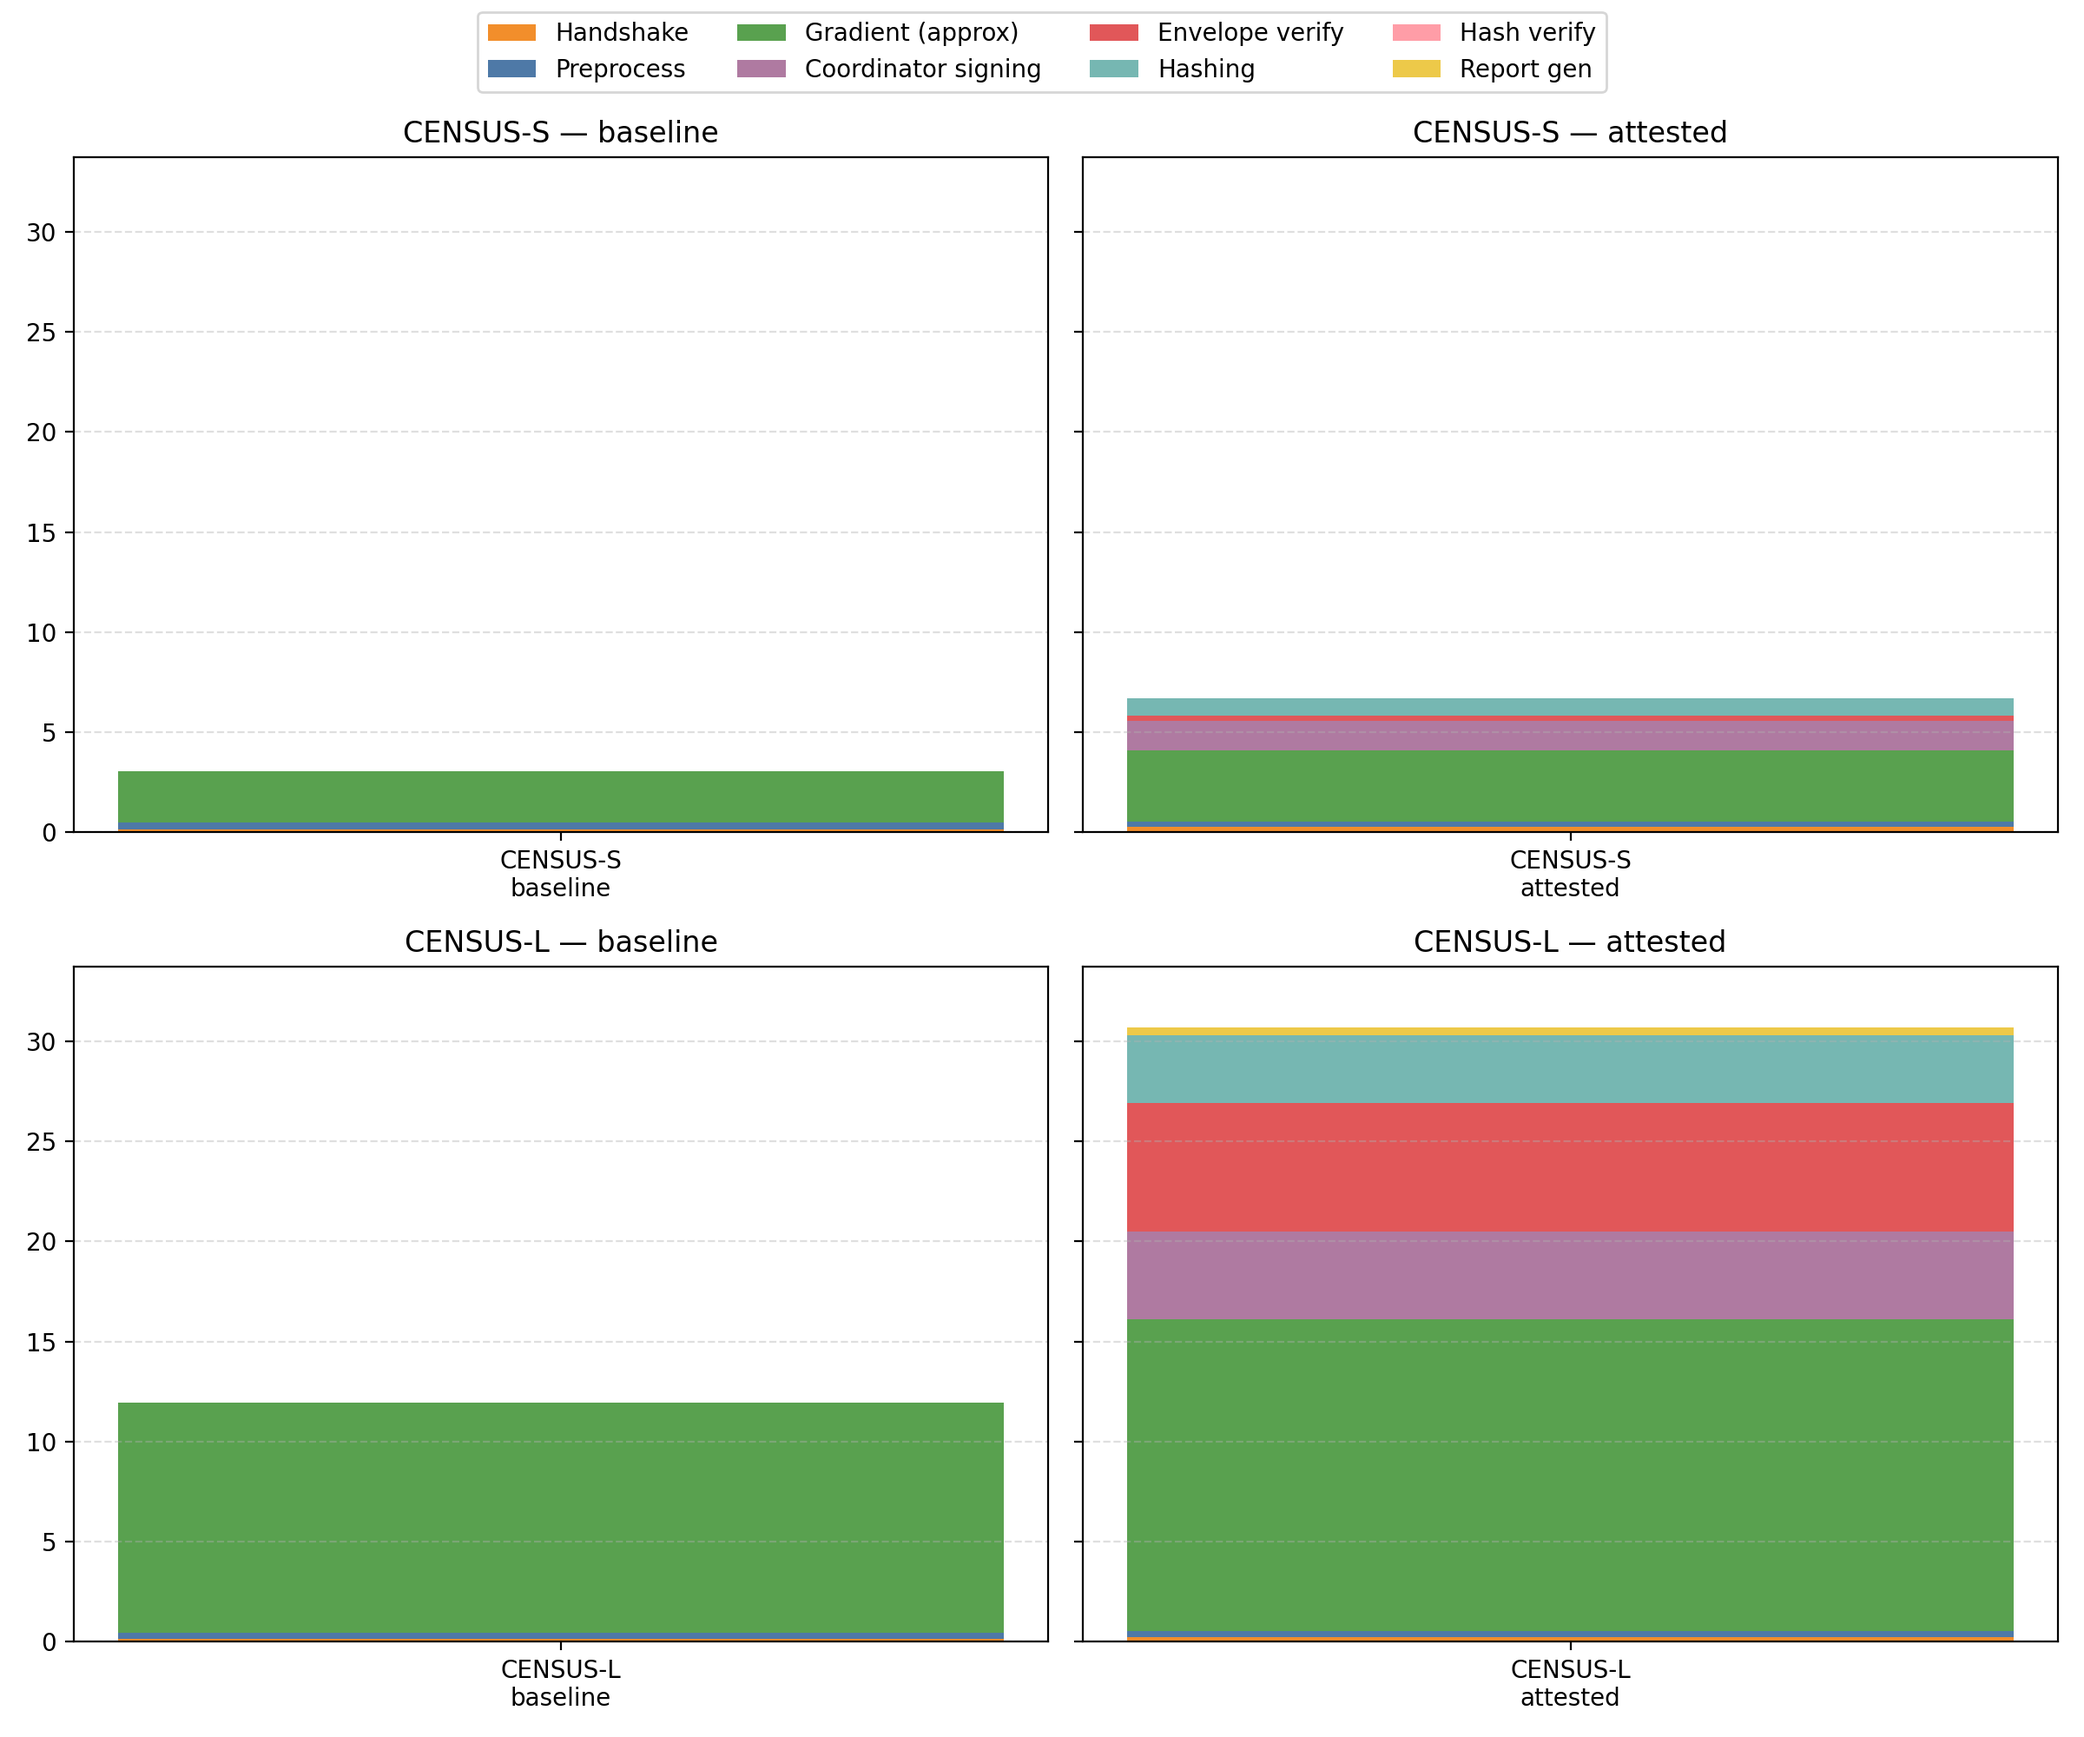
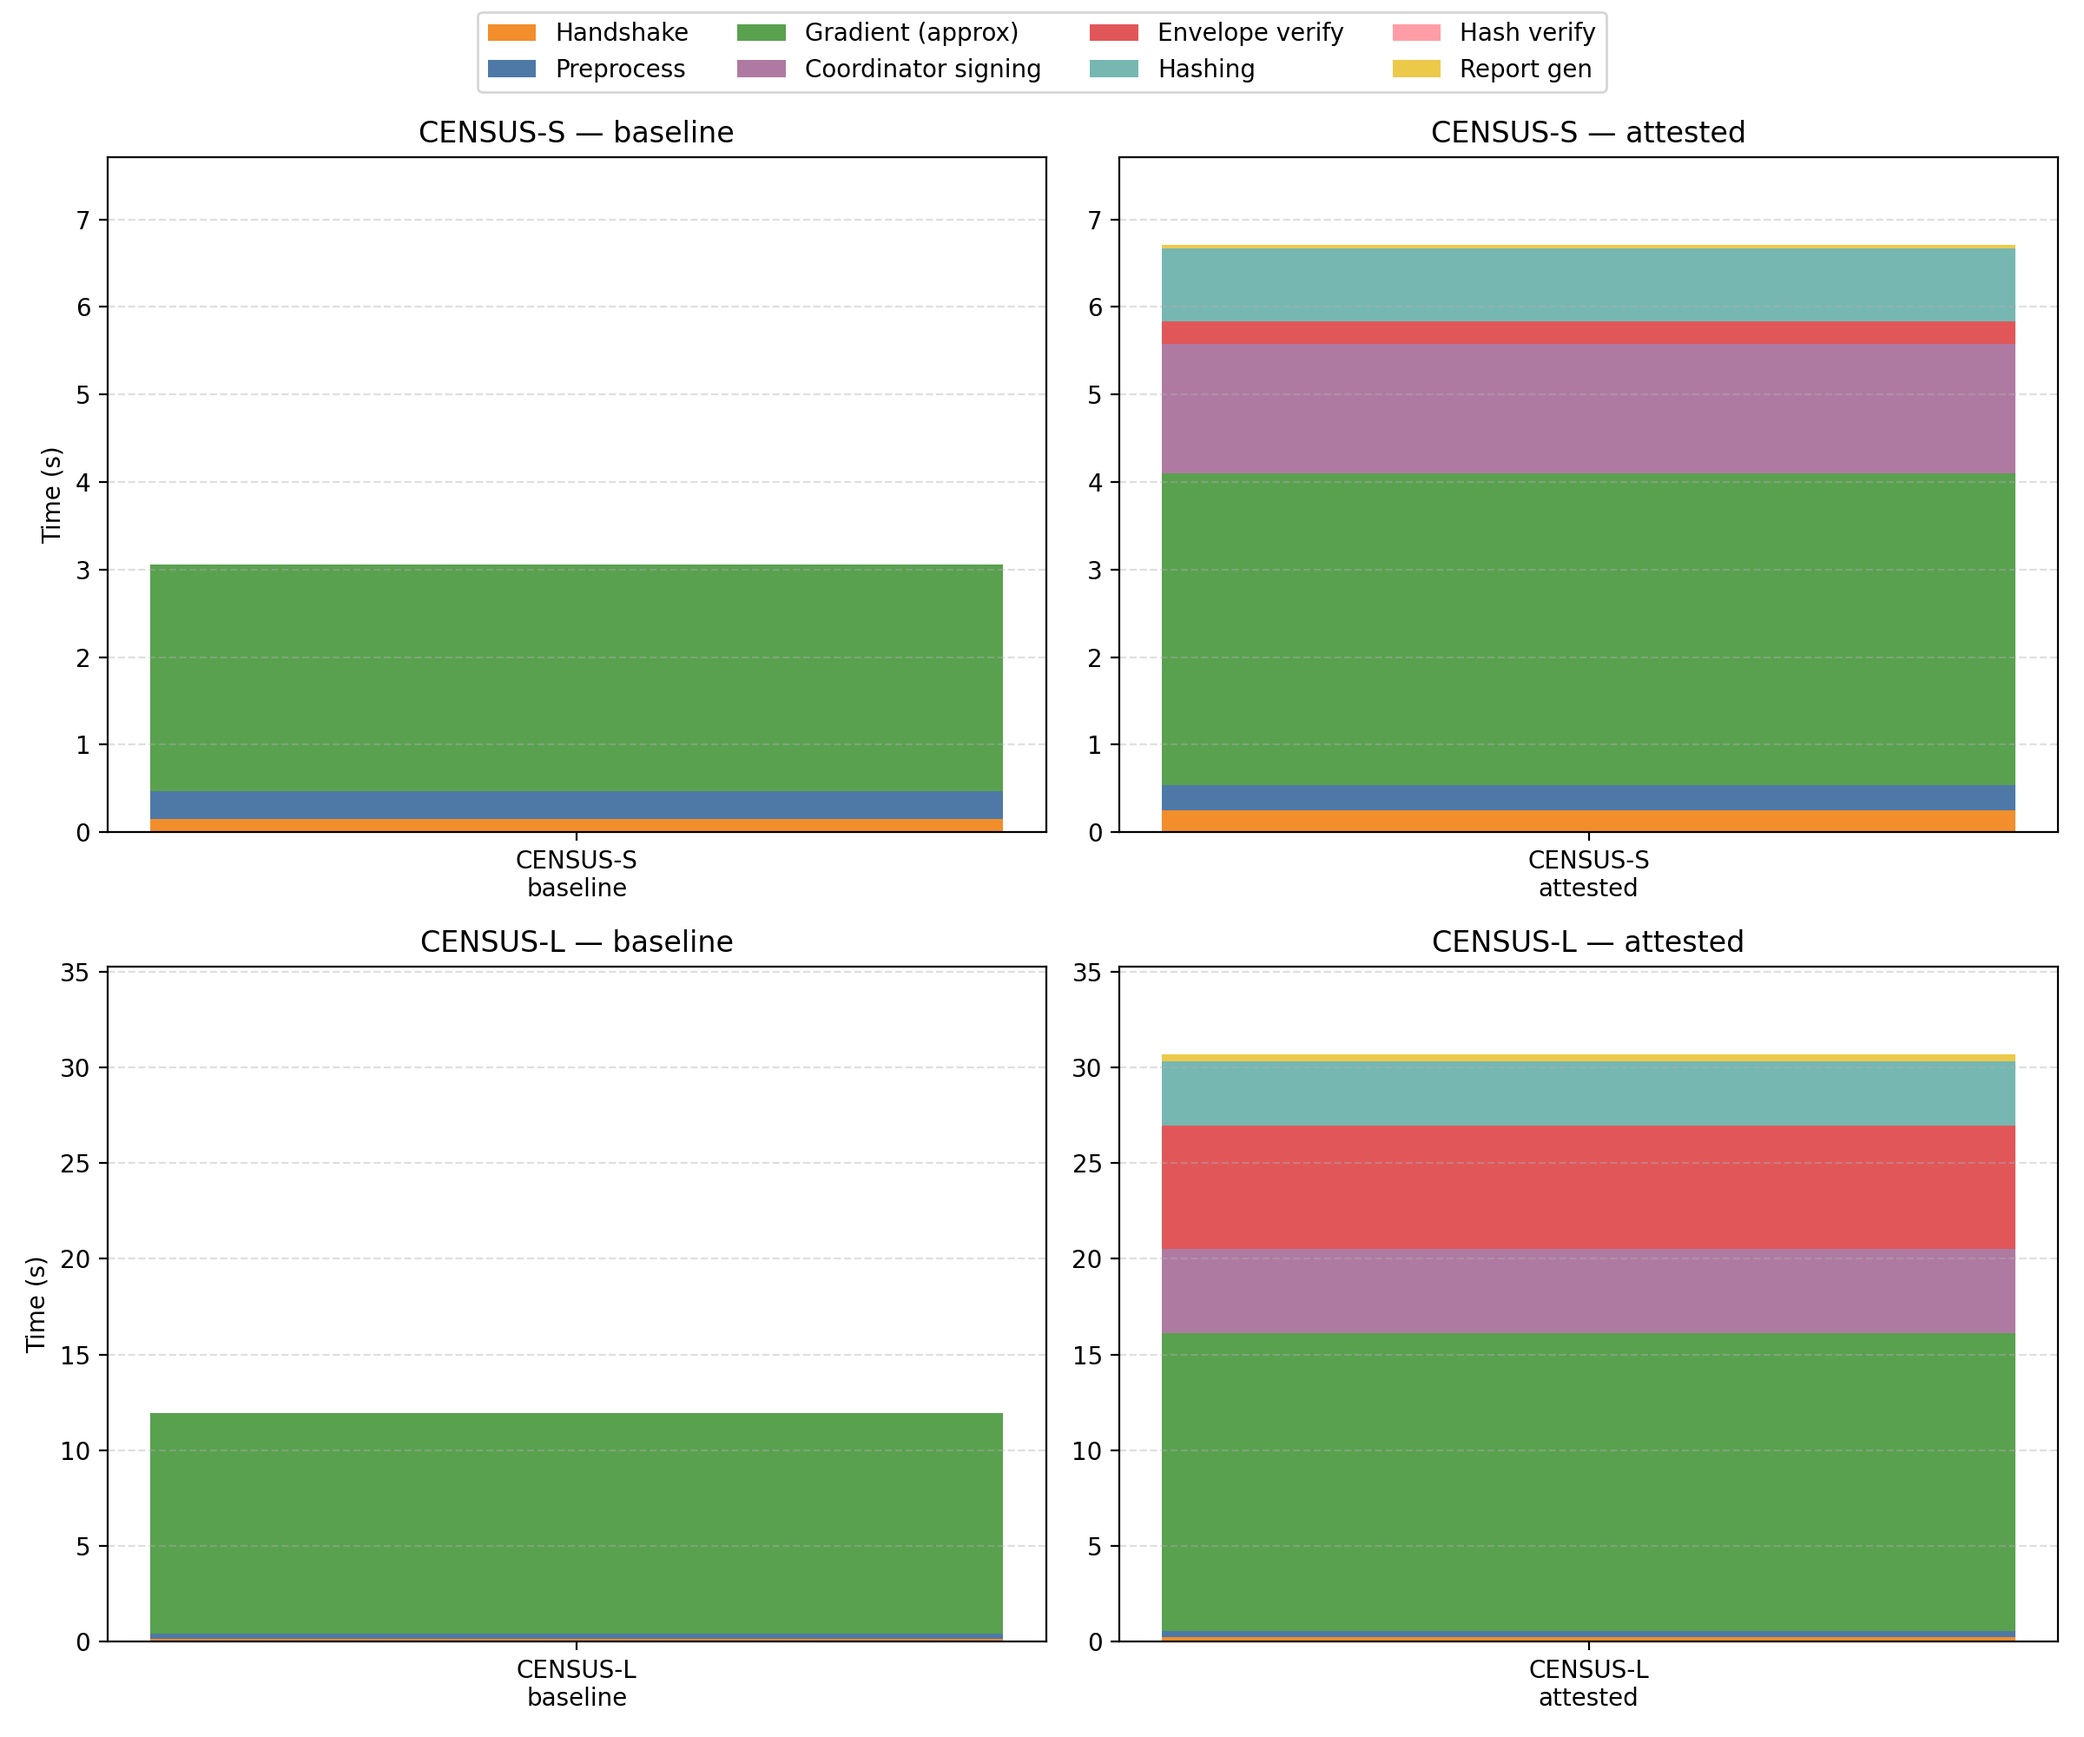
Fixed time scale for results graphs.

diff --git a/Analysis/performance-tests/results_parse.py b/Analysis/performance-tests/results_parse.py
@@ -213,12 +213,16 @@ def plot_grid(all_rows: pd.DataFrame):
         ("Report gen", "report_mean_s", C_REPORT),
     ]
 
-    ymax = all_rows["pipeline_total_mean_s"].max() * 1.10
+    # Per-model Y scaling so CENSUS-S bars remain readable
+    model_ymax = {
+        model: all_rows[all_rows["model"] == model]["pipeline_total_mean_s"].max() * 1.15
+        for model in all_rows["model"].unique()
+    }
 
     # Pre-build legend handles so we don't miss components that are zero in the first panel
     legend_handles = [Patch(facecolor=color, label=label) for label, _, color in parts]
 
-    fig, axes = plt.subplots(2, 2, figsize=(12, 10), sharey=True)
+    fig, axes = plt.subplots(2, 2, figsize=(12, 10), sharey=False)
     axes = axes.flatten()
 
     for idx, (model, mode) in enumerate(order):
@@ -239,7 +243,9 @@ def plot_grid(all_rows: pd.DataFrame):
         ax.set_title(f"{model} — {mode}")
         ax.set_xticks([0.0], [f"{model}\n{mode}"])
         ax.grid(axis="y", linestyle="--", alpha=0.4)
-        ax.set_ylim(0, ymax)
+        ax.set_ylim(0, model_ymax.get(model, all_rows["pipeline_total_mean_s"].max() * 1.15))
+        if idx % 2 == 0:  # left column
+            ax.set_ylabel("Time (s)")
 
     fig.legend(handles=legend_handles, loc="upper center", ncol=4, frameon=True, bbox_to_anchor=(0.5, 1.00))
     fig.suptitle("Subcomponent breakdown (mean) — shared Y-axis", y=1.05)
